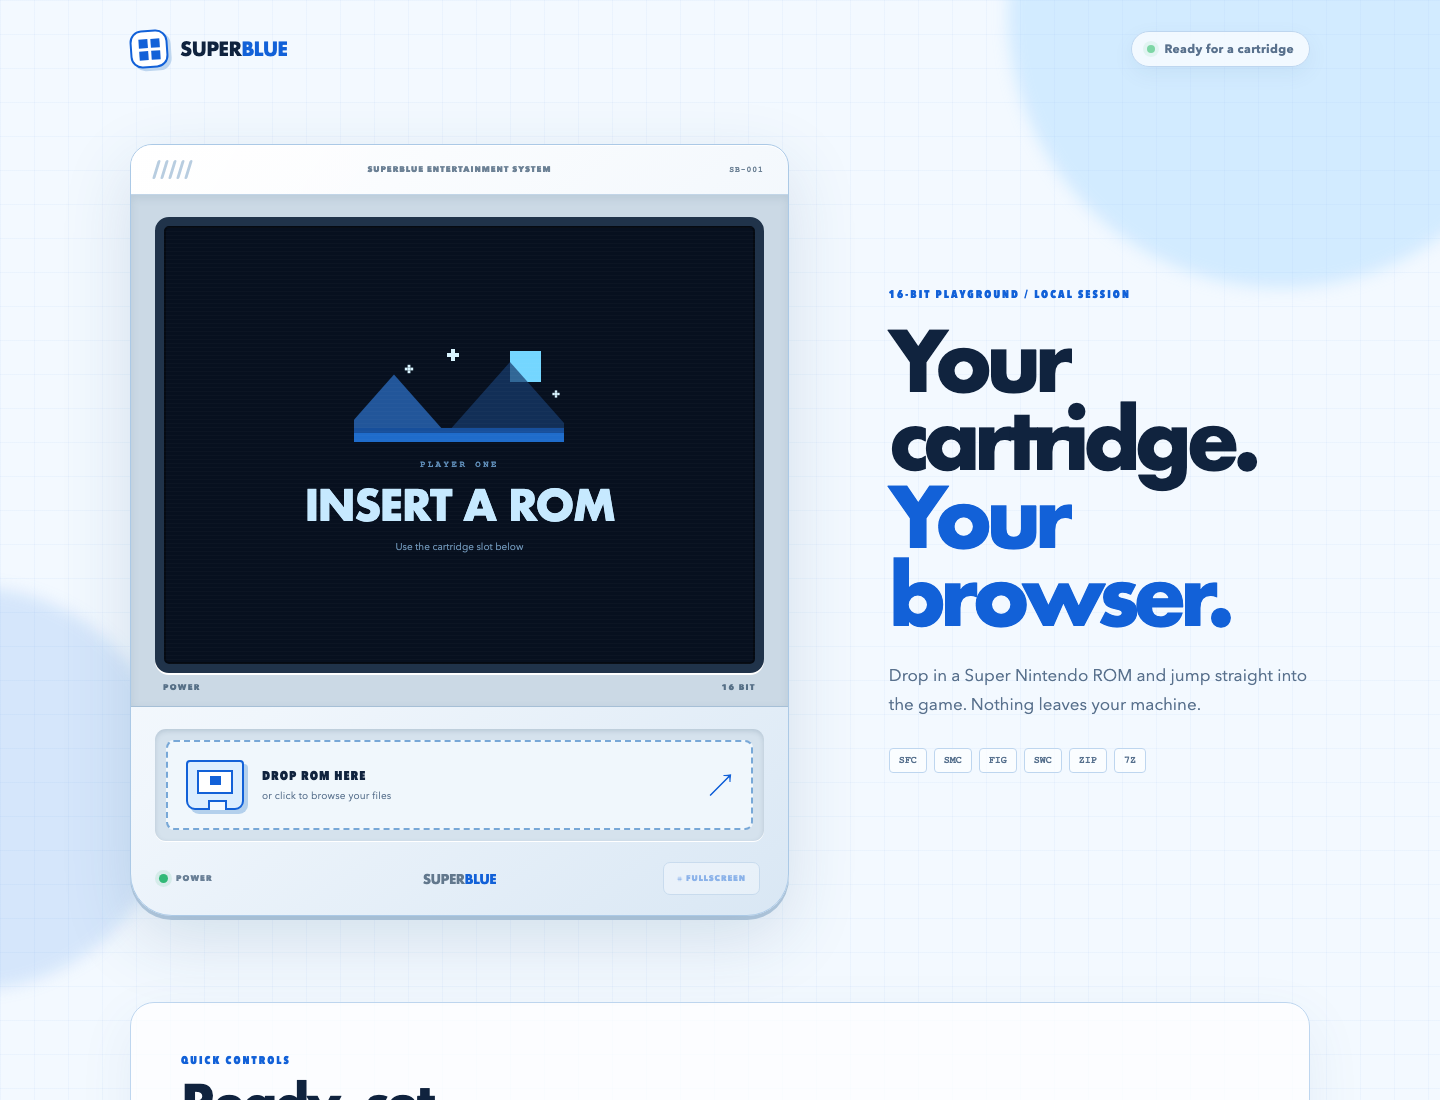
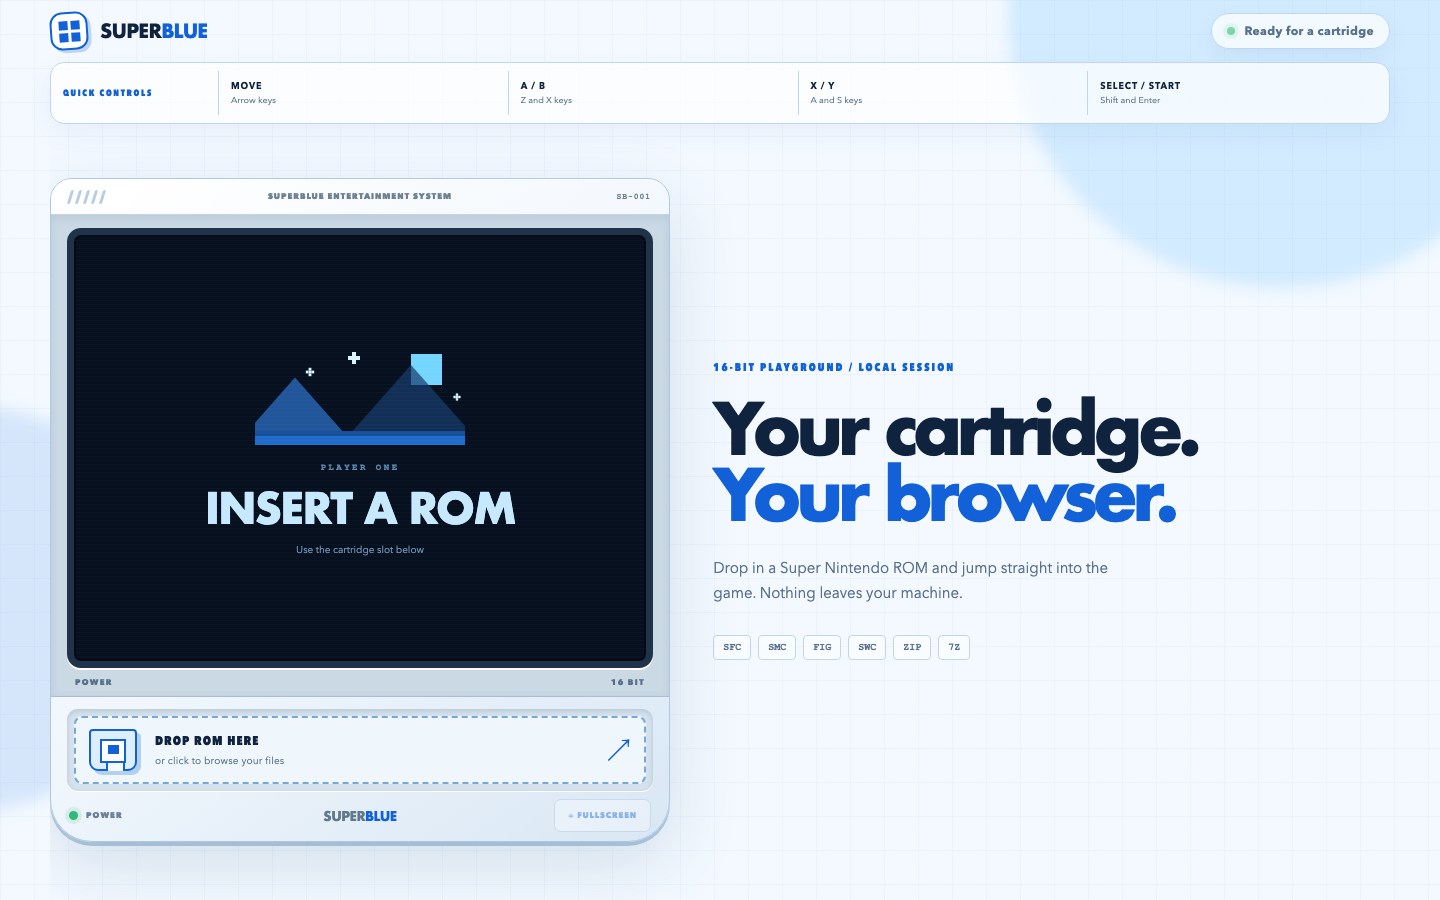
added code

diff --git a/pocs/snes-emu/app.js b/pocs/snes-emu/app.js
@@ -51,6 +51,16 @@ const crc32 = (bytes, offset = 0) => {
   return ((crc ^ 0xffffffff) >>> 0).toString(16).padStart(8, '0').toUpperCase()
 }
 
+const snesTitle = bytes => {
+  const rom = bytes.length % 1024 === 512 ? bytes.subarray(512) : bytes
+  const offsets = [0x7fc0, 0xffc0, 0x40ffc0]
+  const titles = offsets
+    .filter(offset => offset + 21 <= rom.length)
+    .map(offset => Array.from(rom.subarray(offset, offset + 21), value => value >= 32 && value <= 126 ? String.fromCharCode(value) : ' ').join('').replace(/\s+/g, ' ').trim())
+    .filter(title => title.length >= 4)
+  return titles.sort((left, right) => right.length - left.length)[0] || ''
+}
+
 const formatBytes = bytes => {
   if (bytes < 1024 * 1024) return `${(bytes / 1024).toFixed(1)} KB`
   return `${(bytes / 1024 / 1024).toFixed(2)} MB`
@@ -129,6 +139,8 @@ const loadMetadata = async file => {
     const bytes = new Uint8Array(await file.arrayBuffer())
     params.set('crc', crc32(bytes))
     if (bytes.length % 1024 === 512) params.set('headerlessCrc', crc32(bytes, 512))
+    const internalTitle = snesTitle(bytes)
+    if (internalTitle) params.set('internalTitle', internalTitle)
   }
   try {
     const response = await fetch(`/metadata?${params}`)

diff --git a/pocs/snes-emu/styles.css b/pocs/snes-emu/styles.css
@@ -167,9 +167,9 @@ main {
   flex: 1 1 auto;
   padding: 14px 0 18px;
   display: grid;
-  grid-template-columns: minmax(500px, 680px) minmax(430px, 1fr);
+  grid-template-columns: minmax(470px, 620px) minmax(570px, 1fr);
   align-items: center;
-  gap: clamp(36px, 4vw, 58px);
+  gap: clamp(28px, 3vw, 44px);
   overflow: hidden;
 }
 
@@ -240,7 +240,7 @@ h1 em {
   grid-column: 1;
   grid-row: 1;
   width: min(100%, calc((100svh - 178px) * 0.96));
-  max-width: 680px;
+  max-width: 620px;
   justify-self: start;
   border: 1px solid #abc9e6;
   border-radius: 22px 22px 42px 42px;
@@ -257,7 +257,7 @@ h1 em {
   max-width: 100%;
   justify-self: end;
   display: grid;
-  grid-template-columns: minmax(300px, 400px) minmax(120px, 1fr);
+  grid-template-columns: minmax(340px, 440px) minmax(135px, 1fr);
   grid-template-rows: auto 1fr;
   align-items: center;
   gap: 10px 24px;
@@ -274,7 +274,7 @@ h1 em {
   position: relative;
   grid-column: 1;
   grid-row: 2;
-  width: min(100%, 400px);
+  width: min(100%, 440px);
   max-height: calc(100svh - 178px);
   aspect-ratio: 7 / 10;
   margin: 0;

diff --git a/pocs/snes-emu/README.md b/pocs/snes-emu/README.md
@@ -1,0 +1,208 @@
+<div align="center">
+
+# SUPERBLUE
+
+### Your cartridge. Your browser.
+
+[![EmulatorJS](https://img.shields.io/badge/EmulatorJS-4.2.3-1261d8?style=flat-square)](https://emulatorjs.org/)
+[![Core](https://img.shields.io/badge/core-Snes9x-0b4ca8?style=flat-square)](https://emulatorjs.org/docs/systems/snes/)
+![Port](https://img.shields.io/badge/port-9011-57a6e9?style=flat-square)
+![Dependencies](https://img.shields.io/badge/runtime_dependencies-0-31b977?style=flat-square)
+
+A focused, local-first Super Nintendo player with drag-and-drop cartridges, authentic box-art matching, save states, gamepads, fullscreen play, and a responsive light blue hardware interface.
+
+</div>
+
+![SuperBlue desktop interface](docs/images/superblue-desktop.png)
+
+## Start playing
+
+Requirements:
+
+- Node.js 20 or newer
+- A current Chromium, Firefox, or Safari browser
+- Internet access for the pinned emulator core and game artwork
+- A SNES ROM you have the right to use
+
+Start the server:
+
+```bash
+./start.sh
+```
+
+Open [http://127.0.0.1:9011/](http://127.0.0.1:9011/), then drop a cartridge into the slot or click it to open the file picker.
+
+Stop the server:
+
+```bash
+./stop.sh
+```
+
+The default port is `9011`. A temporary override is available when needed:
+
+```bash
+PORT=9020 ./start.sh
+```
+
+## What it does
+
+| Capability | Behavior |
+|---|---|
+| Cartridge loading | Drag a ROM anywhere on the shell or open it from the cartridge slot |
+| Emulation | Runs the Snes9x Libretro core through EmulatorJS 4.2.3 |
+| ROM formats | `.sfc`, `.smc`, `.fig`, `.swc`, `.gd3`, `.gd7`, `.dx2`, `.bsx`, `.zip`, `.7z` |
+| Game identity | Matches CRC32, headerless SMC CRC32, internal SNES title, then filename |
+| Game artwork | Resolves actual filenames from the official Libretro SNES box-art repository |
+| Game facts | Shows release year and developer from the Libretro database |
+| Save states | Saves and restores through the embedded EmulatorJS control bar |
+| Fullscreen | Uses the browser Fullscreen API; `Escape` restores the normal shell |
+| Controllers | Supports keyboard mapping and browser-compatible gamepads |
+| Privacy | ROM bytes stay in the browser and are never sent to the local server |
+
+## Architecture
+
+```mermaid
+flowchart LR
+    ROM[Local ROM file] --> SHELL[SuperBlue shell]
+    SHELL --> CRC[CRC32 and SNES header reader]
+    CRC --> META[Local metadata endpoint]
+    META --> DB[Libretro database]
+    META --> ART[Libretro box-art index]
+    SHELL -->|File via postMessage| FRAME[Isolated player iframe]
+    FRAME --> EJS[EmulatorJS 4.2.3]
+    EJS --> CORE[Snes9x WebAssembly core]
+    CORE --> CANVAS[Game canvas and audio]
+    CORE <--> STATE[Save states and browser storage]
+```
+
+The application has three deliberately small layers:
+
+1. The shell owns file selection, validation, layout, metadata, fullscreen behavior, and user feedback.
+2. The isolated player frame owns EmulatorJS configuration and keeps its DOM mutations away from the shell.
+3. The Node server exposes a strict static-file allowlist, a health endpoint, and a cached metadata lookup.
+
+No framework, package manager, build pipeline, database server, or third-party JavaScript dependency is required by the application shell.
+
+## Cartridge flow
+
+```text
+Select ROM
+    ↓
+Validate extension and size
+    ↓
+Read CRC32 and internal SNES title in the browser
+    ↓
+Request metadata from the local endpoint
+    ↓
+Pass the original File object to the player iframe
+    ↓
+EmulatorJS loads the Snes9x WebAssembly core
+    ↓
+Play, save, restore, remap, or enter fullscreen
+```
+
+The ROM is represented by the browser `File` object throughout this flow. The server receives only checksum and title query values for metadata matching.
+
+## How game identification works
+
+SuperBlue uses a layered lookup because SNES libraries contain headered dumps, headerless dumps, renamed files, archives, regional releases, and modified cartridges.
+
+1. Raw cartridges are checked with CRC32.
+2. SMC files with a 512-byte copier header are checked again without that header.
+3. LoROM, HiROM, and ExHiROM title locations are inspected for the internal cartridge title.
+4. The filename is normalized when checksum metadata is unavailable.
+5. Artwork is matched against the actual `Named_Boxarts` file index, with region-aware title fallback.
+
+Exact checksum matches provide the strongest result. Modified ROMs and uncommon releases may show filename-derived metadata or the built-in artwork placeholder.
+
+## EmulatorJS and Snes9x
+
+[EmulatorJS](https://emulatorjs.org/docs/) is a browser frontend for Libretro cores compiled to WebAssembly. SuperBlue configures it inside [player.js](player.js) with the SNES system and the pinned `4.2.3` data path.
+
+The effective stack is:
+
+```text
+SuperBlue interface
+    ↓
+EmulatorJS player
+    ↓
+Libretro runtime
+    ↓
+Snes9x core
+    ↓
+WebAssembly, WebGL, Web Audio, Gamepad API
+```
+
+The core is pinned instead of following a moving channel. Legacy WebGL mode and disabled shaders keep save-state restoration consistent across sessions and avoid corrupted dark frames after a restore.
+
+The first cartridge load downloads the emulator runtime and Snes9x core from the official EmulatorJS CDN. Browser caching makes later loads faster.
+
+## Save states
+
+Use the save and load controls inside the player toolbar.
+
+Save states capture core memory, not only the normal in-game save data. They are sensitive to the game revision, emulator core, and core configuration. A state should be restored with the same ROM revision that created it.
+
+For long-term progress, keep the game’s normal battery-backed save data as well as any save states.
+
+## Keyboard controls
+
+| SNES input | Keyboard |
+|---|---|
+| D-pad | Arrow keys |
+| A / B | `Z` / `X` |
+| X / Y | `A` / `S` |
+| Select / Start | `Shift` / `Enter` |
+
+The player toolbar contains the complete mapper. Connected gamepads can be assigned there without changing application code.
+
+## Fullscreen
+
+The blue `FULLSCREEN` control becomes active after a cartridge is selected. It expands the entire game screen rather than the surrounding page.
+
+Press `Escape` to return. SuperBlue handles both the browser’s native fullscreen exit and a player-frame fallback message.
+
+## Project map
+
+| File | Responsibility |
+|---|---|
+| `index.html` | Shell structure, cartridge slot, player screen, artwork rail, compact controls |
+| `styles.css` | Single-screen responsive hardware interface and fullscreen layout |
+| `app.js` | ROM validation, CRC32, SNES title reading, metadata, drag-and-drop, fullscreen |
+| `player.html` | Isolated host for EmulatorJS |
+| `player.js` | Snes9x and EmulatorJS configuration |
+| `server.mjs` | Static server, health check, metadata and artwork index cache |
+| `start.sh` | Persistent startup and health verification |
+| `stop.sh` | Graceful process shutdown |
+
+## Responsive view
+
+<div align="center">
+  <img src="docs/images/superblue-mobile.png" width="500" alt="SuperBlue compact responsive interface">
+</div>
+
+The desktop layout keeps the emulator on the left and gives artwork a wide right-hand stage. Narrow screens prioritize the player and present the cover as a compact floating card without adding page scrolling.
+
+## Troubleshooting
+
+### The core does not load
+
+Confirm that the browser can reach `cdn.emulatorjs.org`. SuperBlue reports a connection error instead of leaving the cartridge reader active indefinitely.
+
+### Artwork is missing
+
+Artwork depends on a matching entry in the Libretro SNES thumbnail collection. Raw SFC and SMC files have the best identification rate because they can be matched by checksum.
+
+### A save state restores incorrectly
+
+Use a state created by the same ROM revision and the same pinned SuperBlue core. Restart the cartridge before retrying a state that came from another emulator or another game revision.
+
+### Port 9011 is busy
+
+Stop the existing process with `./stop.sh` or start on a temporary port through the `PORT` environment variable.
+
+## Data and ownership
+
+SuperBlue does not include games, firmware, or copyrighted box-art files. Artwork is requested from the [Libretro SNES thumbnail repository](https://github.com/libretro-thumbnails/Nintendo_-_Super_Nintendo_Entertainment_System), and metadata comes from the [Libretro database](https://github.com/libretro/libretro-database).
+
+Use only game files you are legally permitted to use.